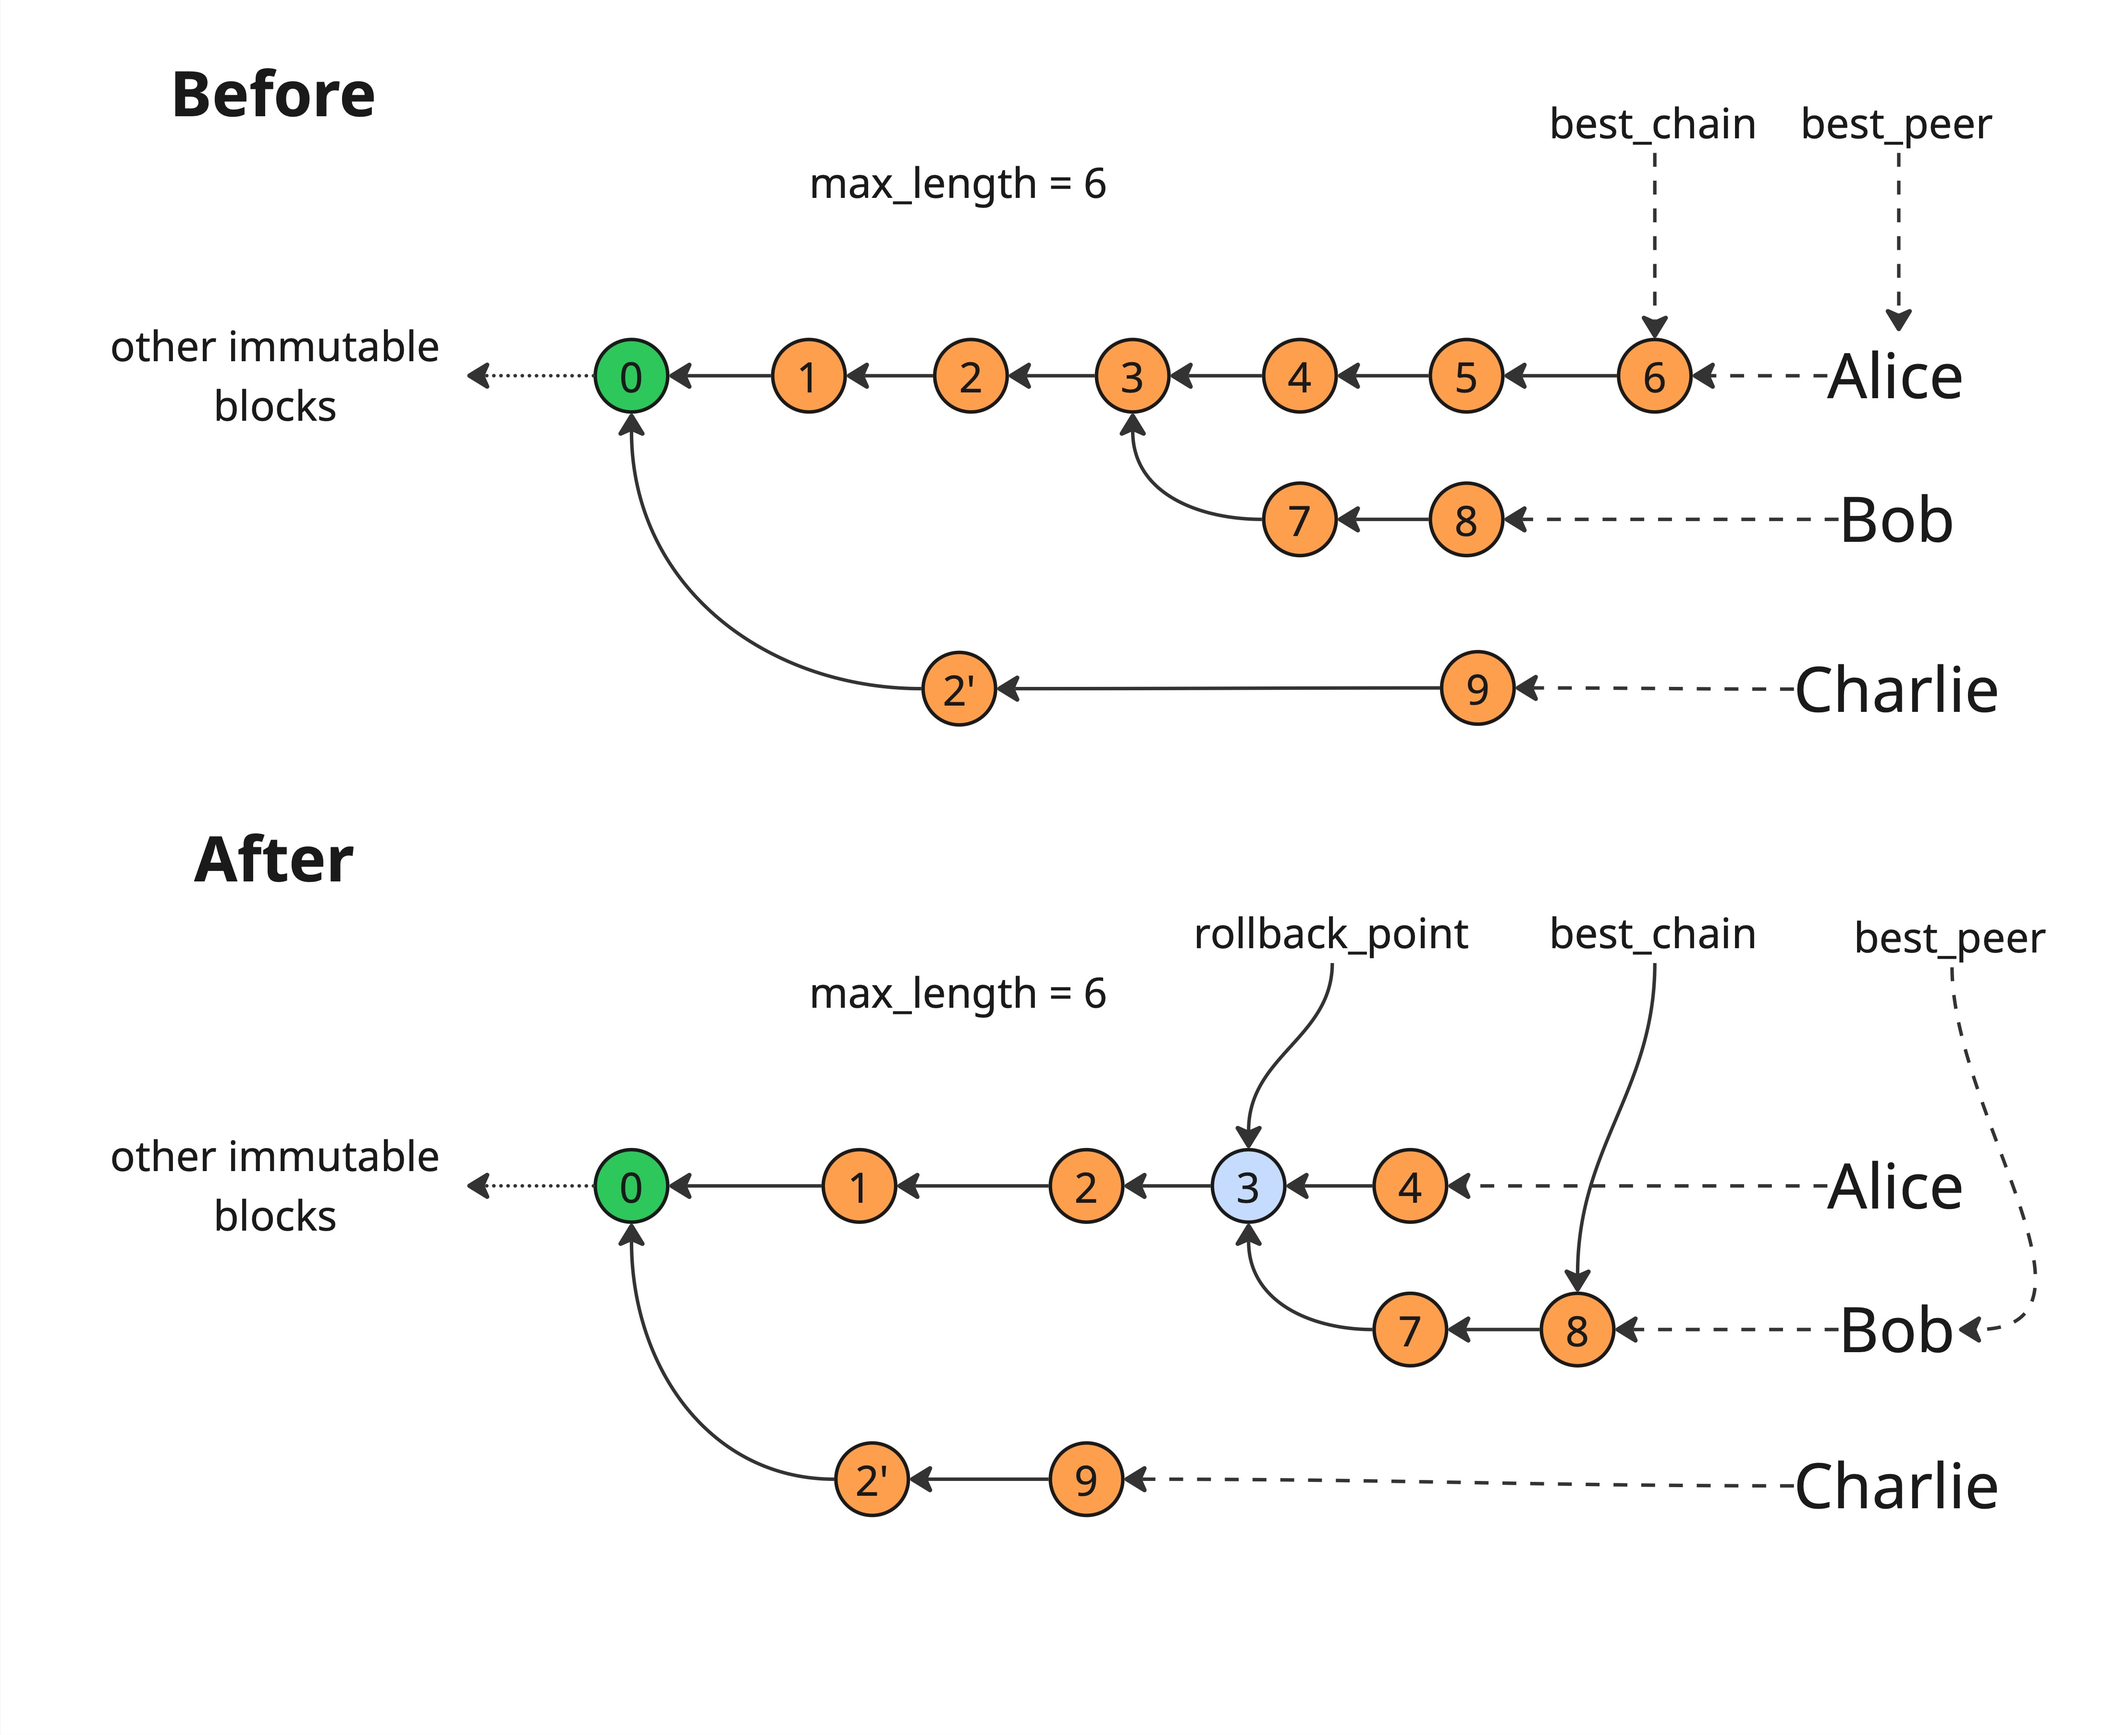
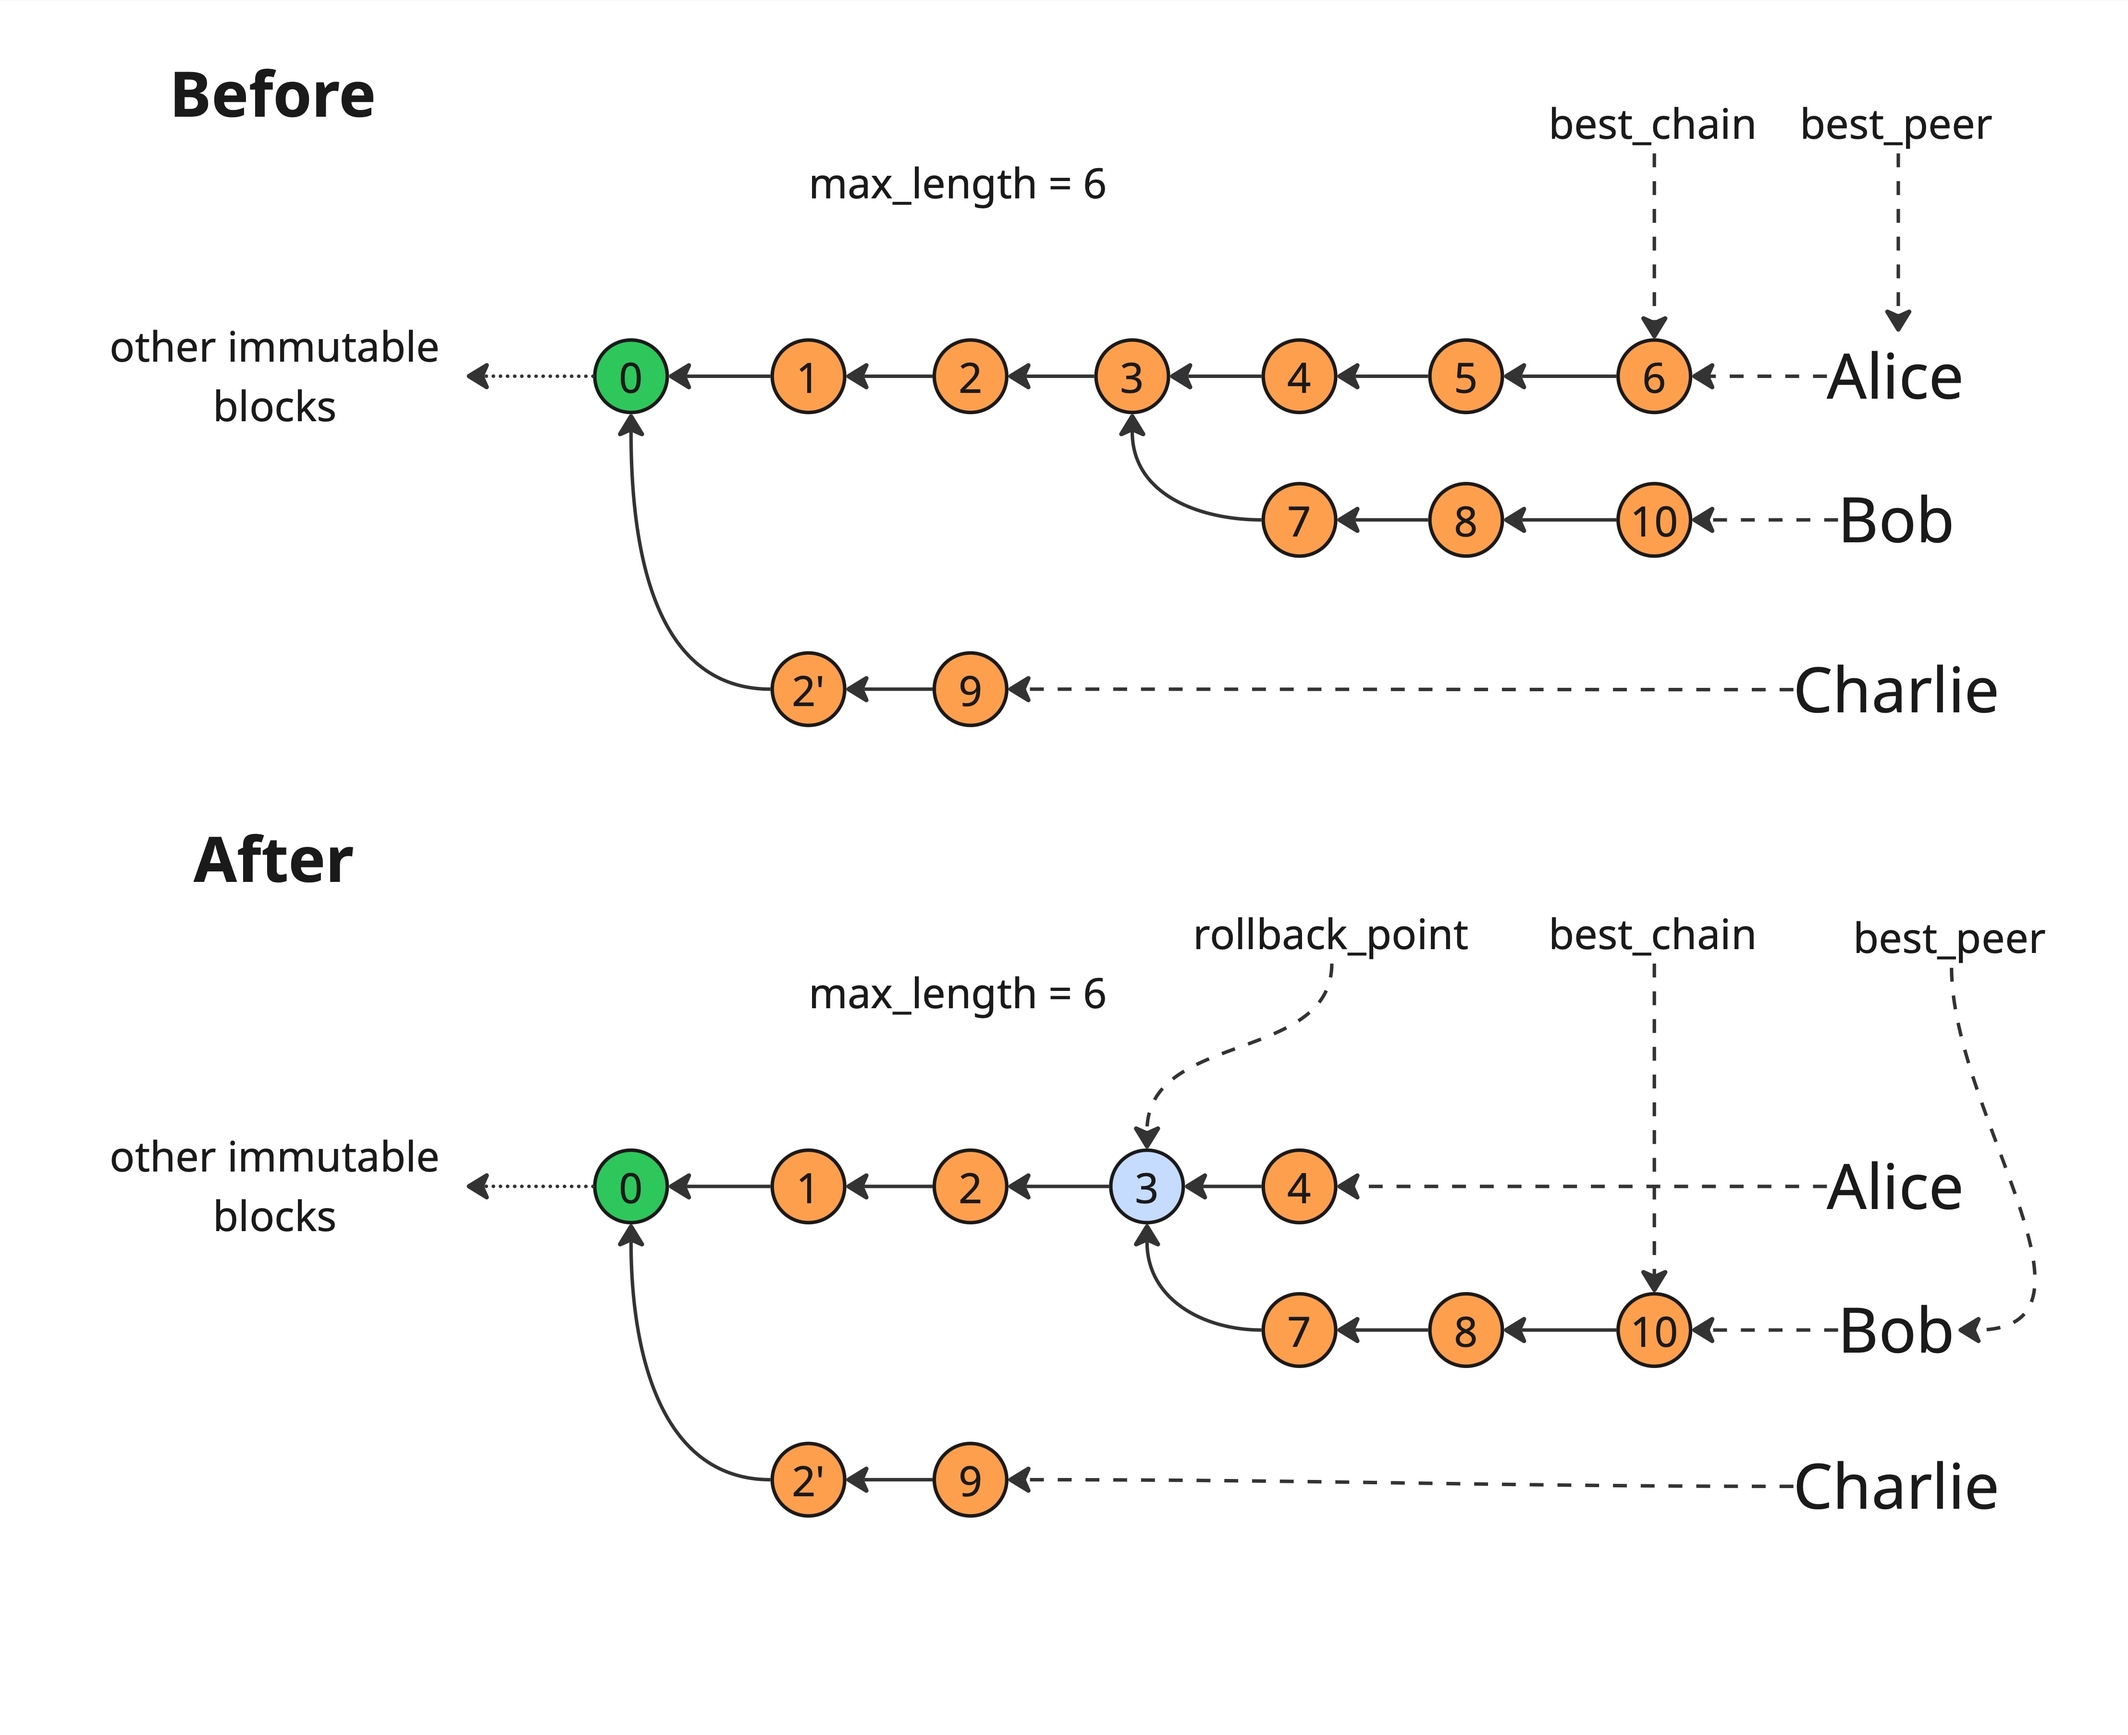
doc: express invariant of headers tree
also update fork picture to be consistent with said invariant, and add
a note to take care of what happens if we need to rollback the best
chain and the new best chain is shorter than k.

diff --git a/crates/amaru-consensus/README.md b/crates/amaru-consensus/README.md
@@ -118,6 +118,15 @@ Here is a graphical representation of a `HeadersTree` with a couple of peers and
 
 ![A live `HeadersTree` with some state](basic-headers-tree.jpg)
 
+> [!IMPORTANT]
+>
+> Invariants for `HeadersTree` structure
+>
+> * `best_chain`'s length is:
+>   * either exactly equal to `max_length`
+>   * or shorter than `max_length` and the root of the `tree` is `Genesis`
+>
+
 Finally, the `Result` of the chain selection algorithm defines what needs to be communicated to downstream `Peer`s:
 
 ```
@@ -188,7 +197,7 @@ The first step is to check whether or not the given `point` exists in our `tree`
 
 ### Handling forks
 
-When we need to switch to another peer's chain that's not on our `best_chain`, this is a fork. The following picture represents a typical fork situation from a `Rollback "Alice" 4` message:
+When we need to switch to another peer's chain that's not on our current `best_chain`, this is a fork. The following picture represents a typical fork situation from a `Rollback "Alice" 4` message:
 
 ![Fork after a rollback](fork-after-rollback.jpg)
 
@@ -203,7 +212,7 @@ When a fork should happen:
    SwitchToFork {
       rollback_point,
       peer,
-      fork = [7, 8]
+      fork = [7, 8, 10]
    }
    ```
 
@@ -213,6 +222,12 @@ When a fork should happen:
 
 > [!WARNING]
 >
-> What if the new best chain is shorter than $k$, which is the case in the picture? This is very unlikely if the node is following a significant number of peers but not impossible in other cases. However, this means there's another chain which is longer than our previous one, hence longer than $k$
+> What if the new best chain is shorter than $k$, which is the case in the picture? This is very unlikely if the node is following a significant number of peers but not impossible in other cases. However, this means the peer supposedly knows another chain which is longer than our previous best chain, but they could be lying to us!
+>
+>
+> Possible solution:
+>   * We do not immediately switch to the (shorter) fork, which means we need to possibly track 2 nodes for each peer: the current best chain from this node, and the latest best chain before rollback if this chain was our best chain of length $k$
+>   * The latter is updated once the node's current best chain catches up
+>   * We use the the longest known chain from a peer to select out best chain
 
 ### Handling errors
